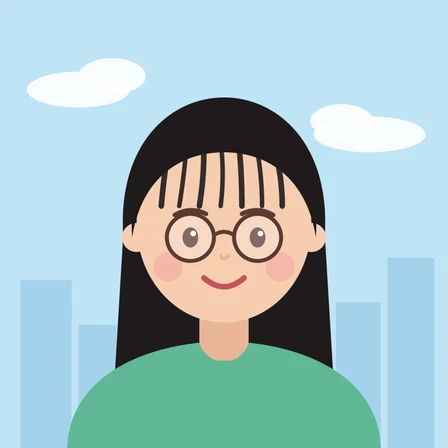
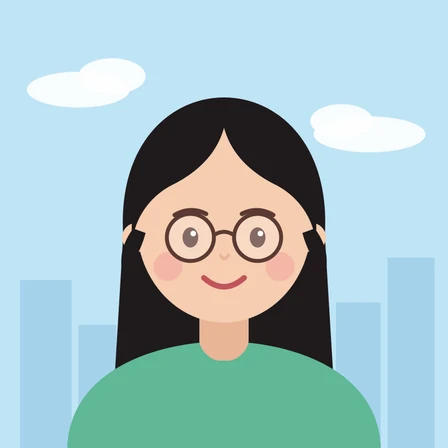
Ảnh thành viên: cả 6 ảnh cùng phong cách và kích thước, Thục Nhi mái bay

Changed region(s): [[0.3125, 0.2812, 0.6875, 0.4688], [0.6562, 0.4688, 0.7188, 0.5625], [0.2812, 0.4688, 0.3438, 0.5625]]

diff --git a/scripts/make-team-avatars.py b/scripts/make-team-avatars.py
@@ -1,7 +1,7 @@
 """
 Vẽ ảnh đại diện hoạt hình tạm cho thành viên (SVG, nền trời xanh giống ảnh mẫu).
 
-Đây là hình minh họa chung, KHÔNG vẽ theo ngoại hình thật của ai. Khi thành viên có ảnh riêng,
+Đây là hình minh họa chung cho cả 6 người (cùng kích thước đầu, cùng nền), KHÔNG vẽ theo ngoại hình thật của ai. Khi thành viên có ảnh riêng,
 chỉ cần chép đè public/team/<slug>.webp.
 
 Chạy:  python scripts/make-team-avatars.py <thư mục xuất SVG>
@@ -80,23 +80,35 @@ def hair_short(c):
     return back, front
 
 
-def hair_long_wispy(c):
-    """Tóc dài thả, mái thưa: đường chân tóc cao, vài lọn mảnh rủ xuống trán."""
-    back = f'<path d="M110 210 C100 46 300 46 290 210 L300 376 C262 392 138 392 100 376 Z" fill="{c}"/>'
-    cap = f'<path d="M118 212 C108 56 292 56 282 212 C274 160 240 136 200 136 C160 136 126 160 118 212 Z" fill="{c}"/>'
-    strands = "".join(
-        f'<path d="M{x1} 136 Q{cx} 160 {x2} 184" stroke="{c}" stroke-width="{w}" fill="none" stroke-linecap="round" opacity=".9"/>'
-        for x1, cx, x2, w in [
-            (150, 146, 144, 5),
-            (166, 164, 160, 4),
-            (182, 182, 178, 5),
-            (198, 200, 197, 4),
-            (214, 216, 216, 5),
-            (230, 234, 234, 4),
-            (246, 252, 252, 5),
-        ]
+CURTAIN = (
+    "M118 216 C108 56 292 56 282 216 C279 192 264 174 246 165 C222 153 206 136 200 114 "
+    "C194 136 178 153 154 165 C136 174 121 192 118 216 Z"
+)
+
+
+def curtain_bangs(c):
+    """Mái bay: rẽ ngôi giữa, hai bên vén cong ra ngoài, đuôi mái hơi hất."""
+    tips = (
+        f'<path d="M119 204 Q104 224 110 246 Q124 230 130 208 Z" fill="{c}"/>'
+        f'<path d="M281 204 Q296 224 290 246 Q276 230 270 208 Z" fill="{c}"/>'
     )
-    return back, cap + strands
+    return f'<path d="{CURTAIN}" fill="{c}"/>' + tips
+
+
+def hair_long_curtain(c):
+    """Tóc dài thả, mái bay."""
+    back = f'<path d="M110 210 C100 46 300 46 290 210 L300 376 C262 392 138 392 100 376 Z" fill="{c}"/>'
+    return back, curtain_bangs(c)
+
+
+def hair_ponytail(c):
+    """Tóc buộc đuôi ngựa cao, mái bay."""
+    tail = (
+        f'<path d="M236 84 C282 44 336 78 330 146 C326 196 306 232 312 276 '
+        f'C284 256 276 206 284 160 C288 128 270 108 244 112 Z" fill="{c}"/>'
+    )
+    back = tail + f'<path d="M114 220 C104 52 296 52 286 220 L282 248 C250 232 150 232 118 248 Z" fill="{c}"/>'
+    return back, curtain_bangs(c)
 
 
 def hair_bun(c):
@@ -141,12 +153,21 @@ def avatar(hair, top, collar=None, glasses=False, earrings=None, extra=""):
     )
 
 
+BACKPACK_AND_CUP = (
+    '\n  <path d="M146 314 L128 400 L158 400 L170 308 Z" fill="#7D8590"/>'
+    '<path d="M254 314 L272 400 L242 400 L230 308 Z" fill="#7D8590"/>'
+    '\n  <path d="M92 338 L132 338 L127 400 L97 400 Z" fill="#F4EDE4"/>'
+    '<rect x="88" y="328" width="48" height="12" rx="5" fill="#5B3A33"/>'
+    '<path d="M94 358 L130 358 L128 384 L96 384 Z" fill="#B98A5E"/>'
+)
+
 HEADBAND = '\n  <path d="M124 168 C150 124 250 124 276 168 L270 178 C246 140 154 140 130 178 Z" fill="#F0BF49"/>'
 
 AVATARS = {
     "nhat-ha": avatar(hair_short("#2B1B17"), "#970A1D", collar="#FFFFFF", glasses=True, earrings="#F0BF49"),
     "kieu-trang": avatar(hair_wavy("#4A2C22"), "#F7F1EC", collar="#E999A7"),
-    "thuc-nhi": avatar(hair_long_wispy("#1F1A1C"), "#5FB894", glasses=True),
+    "uyen-phuong": avatar(hair_ponytail("#5A3524"), "#2A2A2E", glasses=True, extra=BACKPACK_AND_CUP),
+    "thuc-nhi": avatar(hair_long_curtain("#1F1A1C"), "#5FB894", glasses=True),
     "xuan-tiep": avatar(hair_bun("#3A241D"), "#F0BF49", collar="#FFFFFF"),
     "van-nhu": avatar(hair_pigtails("#2B1B17", "#E999A7"), "#E999A7", extra=HEADBAND),
 }

diff --git a/README.md b/README.md
@@ -67,7 +67,7 @@ Thêm một tư thế mới: chép file vào `public/mascot/`, rồi thêm một
 
 Chỉ dùng ảnh do chính thành viên cung cấp (ảnh thật hoặc tranh vẽ từ ảnh của chính mình). Không dùng ảnh stock hay ảnh người khác.
 
-Hiện 5 ảnh (trừ Uyên Phương) là hình hoạt hình tạm do `scripts/make-team-avatars.py` vẽ ra, không theo ngoại hình thật của ai. Thành viên nào có ảnh riêng thì chép đè file tương ứng.
+Hiện cả 6 ảnh là hình hoạt hình tạm do `scripts/make-team-avatars.py` vẽ ra, không theo ngoại hình thật của ai. Thành viên nào có ảnh riêng thì chép đè file tương ứng.
 Dòng "Phụ trách" của từng người: điền trường `duty` trong `src/content/team.ts`.
 
 ## Đổi trạng thái nhà tài trợ
